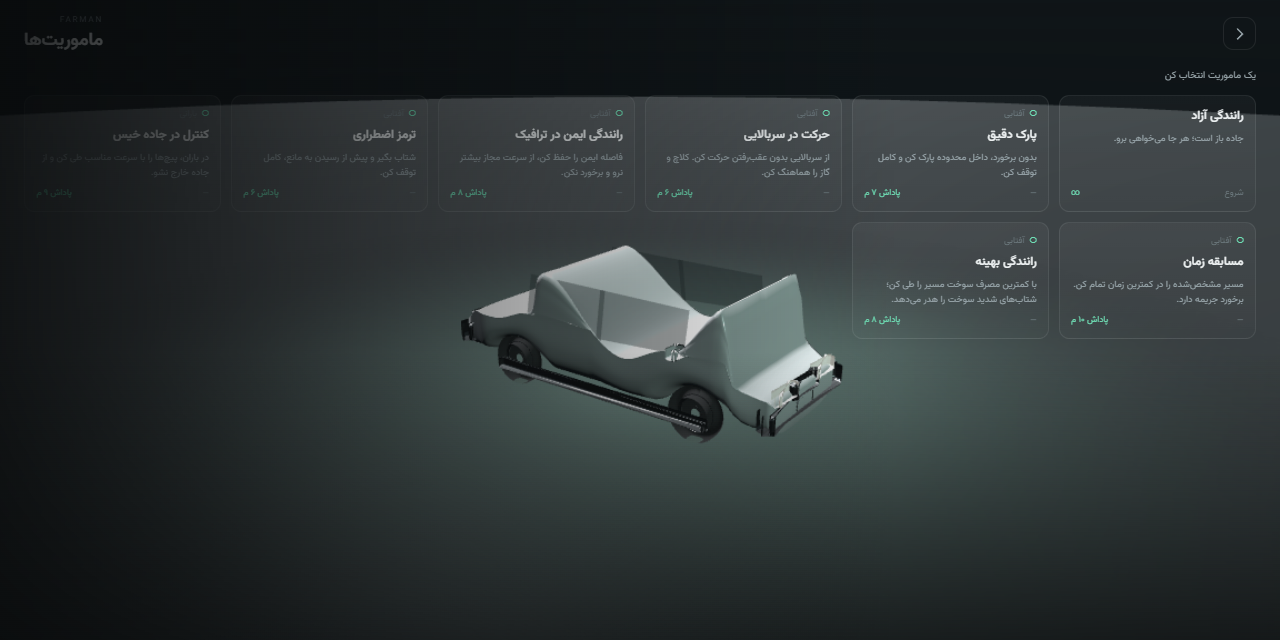
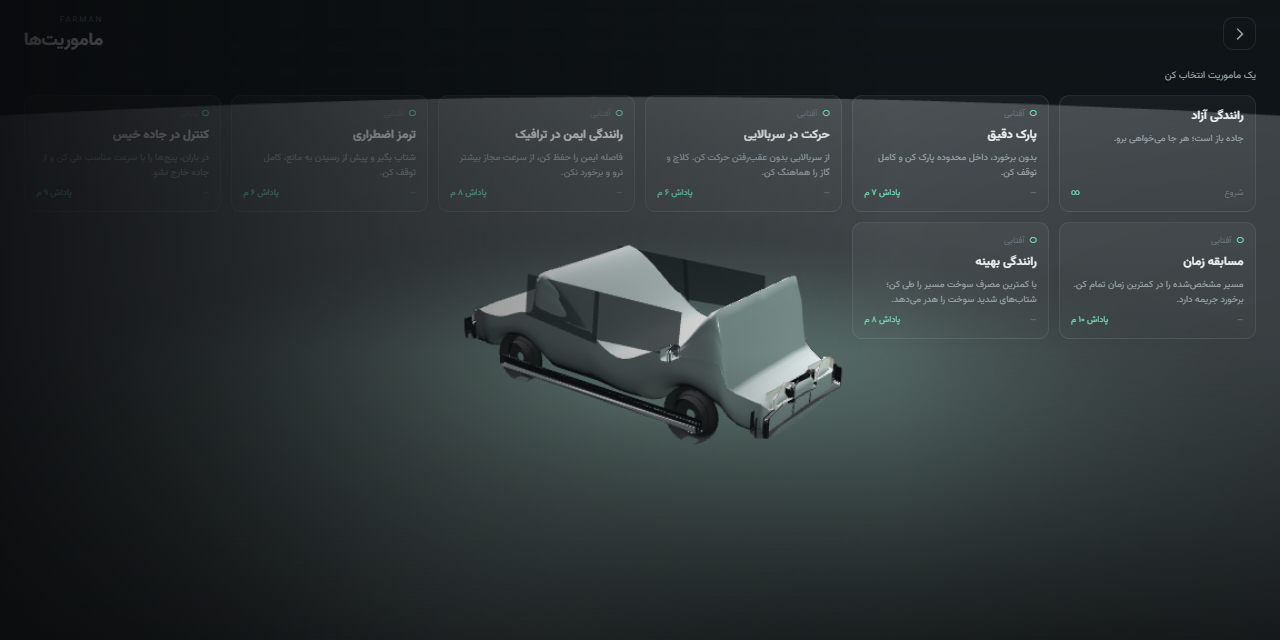
art: visible side glass and refreshed QA capture set

diff --git a/tools/assetgen/vehicles.py b/tools/assetgen/vehicles.py
@@ -296,10 +296,10 @@ def build_glass(spec: CarSpec):
                 y_belt = min(spec.belt_y + 0.01, curve(top_curve, z0) - 0.03)
                 y_belt_b = min(spec.belt_y + 0.01, curve(top_curve, z1) - 0.03)
                 y_top = spec.roof_y - 0.085
-                hw0 = width_at(spec, z0) * 0.972
-                hw1 = width_at(spec, z1) * 0.972
-                hw0t = width_at(spec, z0) * 0.865
-                hw1t = width_at(spec, z1) * 0.865
+                hw0 = width_at(spec, z0) * 1.005
+                hw1 = width_at(spec, z1) * 1.005
+                hw0t = width_at(spec, z0) * 0.93
+                hw1t = width_at(spec, z1) * 0.93
                 parts.append((
                     np.asarray([
                         [side * hw0, y_belt, z0],
@@ -395,7 +395,7 @@ def build_mirrors(spec: CarSpec):
 def make_materials(builder: GLBBuilder, spec: CarSpec) -> Dict[str, str]:
     m = {
         "paint": Material("farfan_paint", base_color=(*spec.paint, 1.0), metallic=0.12, roughness=0.32, clearcoat=1.0, clearcoat_roughness=0.06),
-        "glass": Material("farfan_glass", base_color=(0.10, 0.13, 0.14, 1.0), metallic=0.0, roughness=0.08, alpha_mode="BLEND", alpha=0.38, double_sided=True),
+        "glass": Material("farfan_glass", base_color=(0.06, 0.08, 0.09, 1.0), metallic=0.2, roughness=0.05, alpha_mode="BLEND", alpha=0.72, double_sided=True),
         "rubber": Material("farfan_rubber", base_color=(0.018, 0.018, 0.02, 1.0), metallic=0.0, roughness=0.92),
         "rim": Material("farfan_rim", base_color=(*spec.rim, 1.0), metallic=1.0, roughness=0.22),
         "disc": Material("farfan_brake", base_color=(0.28, 0.28, 0.29, 1.0), metallic=0.9, roughness=0.45),

diff --git a/tools/_patch_glass2.py b/tools/_patch_glass2.py
@@ -1,0 +1,11 @@
+import io
+p='tools/assetgen/vehicles.py'
+s=io.open(p,encoding='utf-8').read()
+s=s.replace('alpha_mode="BLEND", alpha=0.38','alpha_mode="BLEND", alpha=0.72')
+s=s.replace('base_color=(0.10, 0.13, 0.14, 1.0), metallic=0.0, roughness=0.08','base_color=(0.06, 0.08, 0.09, 1.0), metallic=0.2, roughness=0.05')
+s=s.replace('hw0 = width_at(spec, z0) * 0.972','hw0 = width_at(spec, z0) * 1.005')
+s=s.replace('hw1 = width_at(spec, z1) * 0.972','hw1 = width_at(spec, z1) * 1.005')
+s=s.replace('hw0t = width_at(spec, z0) * 0.865','hw0t = width_at(spec, z0) * 0.93')
+s=s.replace('hw1t = width_at(spec, z1) * 0.865','hw1t = width_at(spec, z1) * 0.93')
+io.open(p,'w',encoding='utf-8',newline='').write(s)
+print('glass patched')
